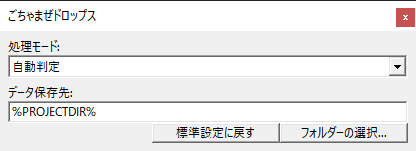
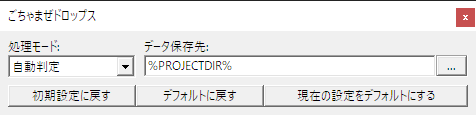
update docs

diff --git a/CHANGELOG.md b/CHANGELOG.md
@@ -1,5 +1,10 @@
 # Changelog
 
+## 0.4.0beta2 2021-12-10
+
+- 設定のデフォルト値を変更できるようにした
+- `GCMZDrops.findallfile()` の挙動を 0.3.x に近づけた
+
 ## 0.4.0beta1 2021-12-03
 
 - Wine など一部の環境で期待通りに動かなかったのを修正
